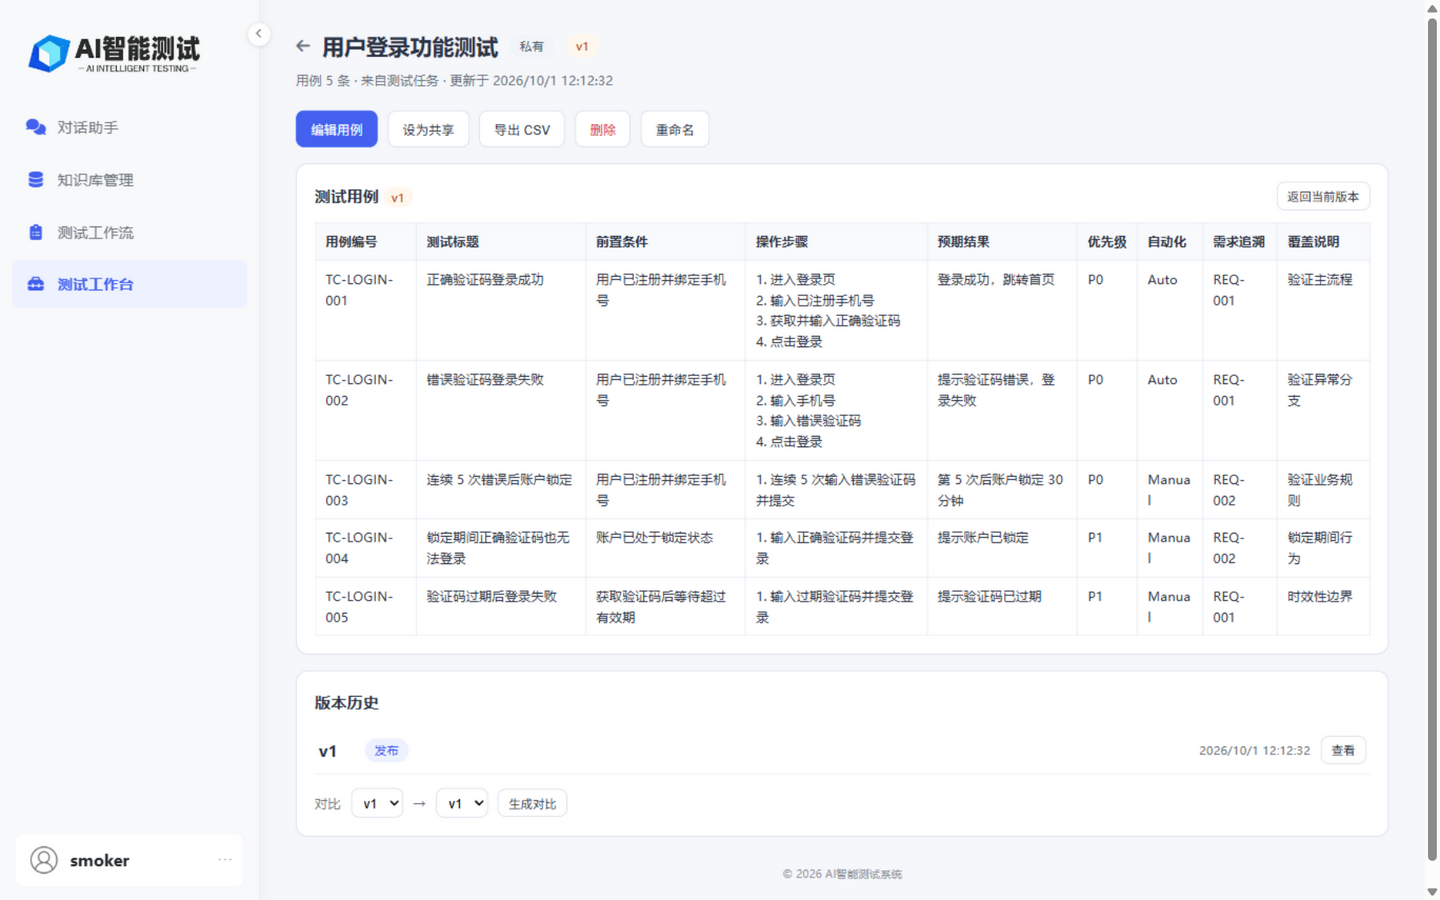
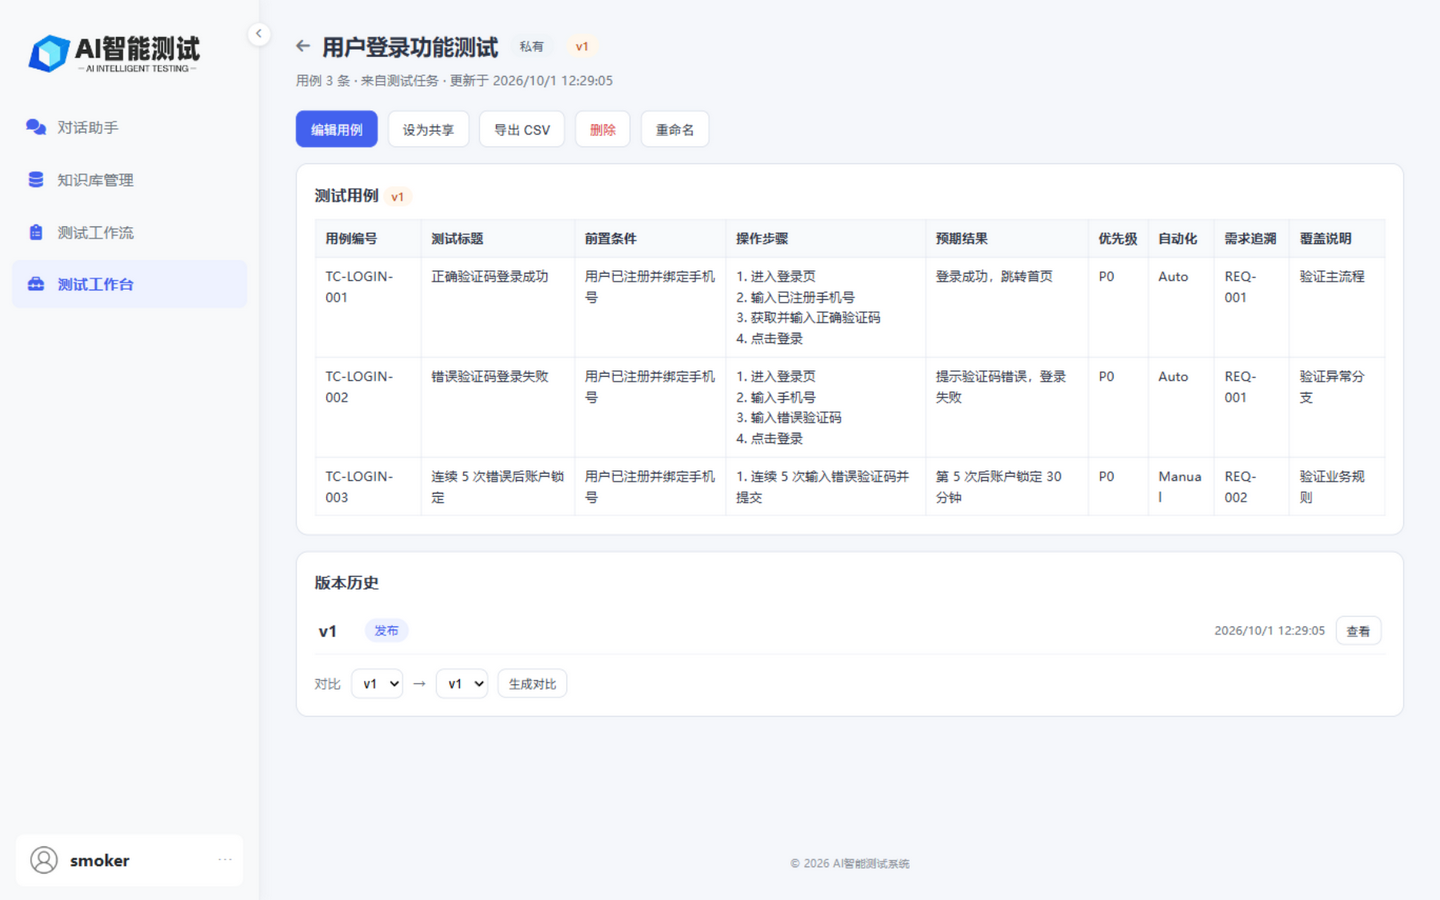
fix: 测试工作台样式修正——版权信息贴底、移动端汉堡按钮避让、用例表窄屏横滚、搜索无结果提示

diff --git a/static/css/testbench.css b/static/css/testbench.css
@@ -21,9 +21,17 @@ body {
     overflow-x: hidden;
 }
 
+.app-container {
+    min-height: 100vh;
+}
+
 .main-content {
-    padding: 28px 36px;
+    flex: 1;
+    display: flex;
+    flex-direction: column;
+    padding: 28px 36px 16px;
     overflow-y: auto;
+    max-width: calc(100vw - 260px);
 }
 
 /* ---------- 头部 ---------- */
@@ -124,6 +132,16 @@ body {
 /* ---------- 列表页 ---------- */
 
 .list-header { margin-bottom: 16px; }
+
+.list-container { flex: 1; }
+
+.no-match-hint {
+    grid-column: 1 / -1;
+    text-align: center;
+    color: var(--tb-muted);
+    padding: 40px 20px;
+    font-size: 14px;
+}
 
 .search-box {
     display: flex;
@@ -395,8 +413,36 @@ body {
 }
 
 .footer-note {
+    margin-top: auto;
     text-align: center;
     color: var(--tb-muted);
     font-size: 12px;
     padding: 16px 0 4px;
+}
+
+/* ---------- 移动端 ---------- */
+
+@media (max-width: 768px) {
+    .main-content {
+        padding: 20px 16px 12px;
+        max-width: 100vw;
+    }
+
+    /* 避让固定的汉堡菜单按钮 */
+    .tb-header {
+        padding-top: 52px;
+    }
+
+    /* 窄屏下用例表保持可读宽度，由 .table-wrap 横向滚动 */
+    .cases-table {
+        min-width: 760px;
+    }
+
+    .detail-actions {
+        gap: 8px;
+    }
+
+    .diff-controls {
+        flex-wrap: wrap;
+    }
 }

diff --git a/static/js/testbench.js b/static/js/testbench.js
@@ -62,6 +62,13 @@ function filterSets(keyword) {
 
 function renderList(sets) {
     listEl.innerHTML = "";
+    if (sets.length === 0 && searchInput.value.trim()) {
+        const hint = document.createElement("div");
+        hint.className = "no-match-hint";
+        hint.textContent = "没有匹配的用例集，换个关键词试试";
+        listEl.appendChild(hint);
+        return;
+    }
     sets.forEach((set) => listEl.appendChild(renderCard(set)));
 }
 
